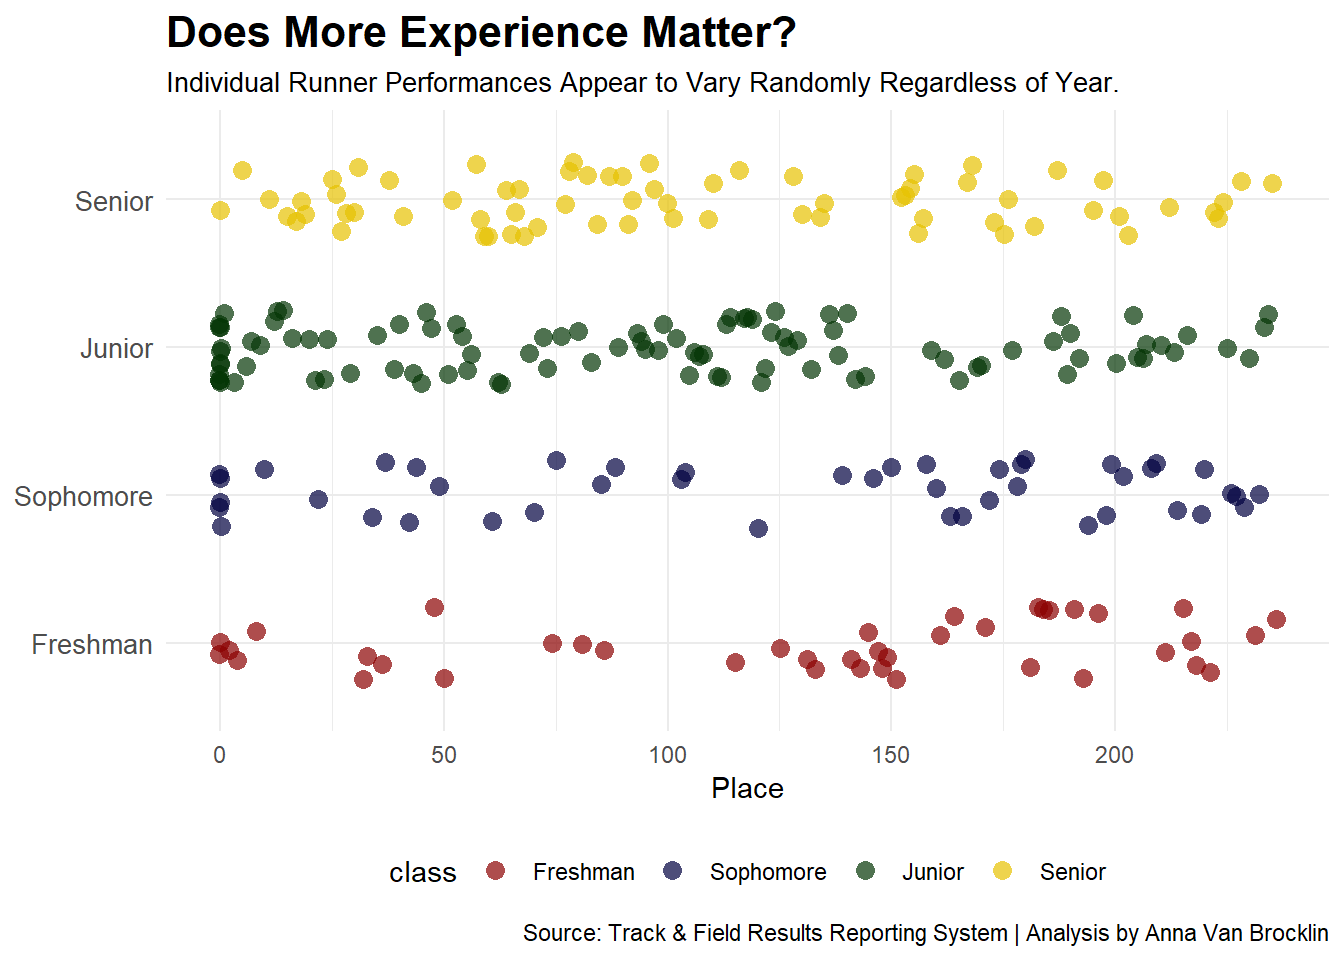
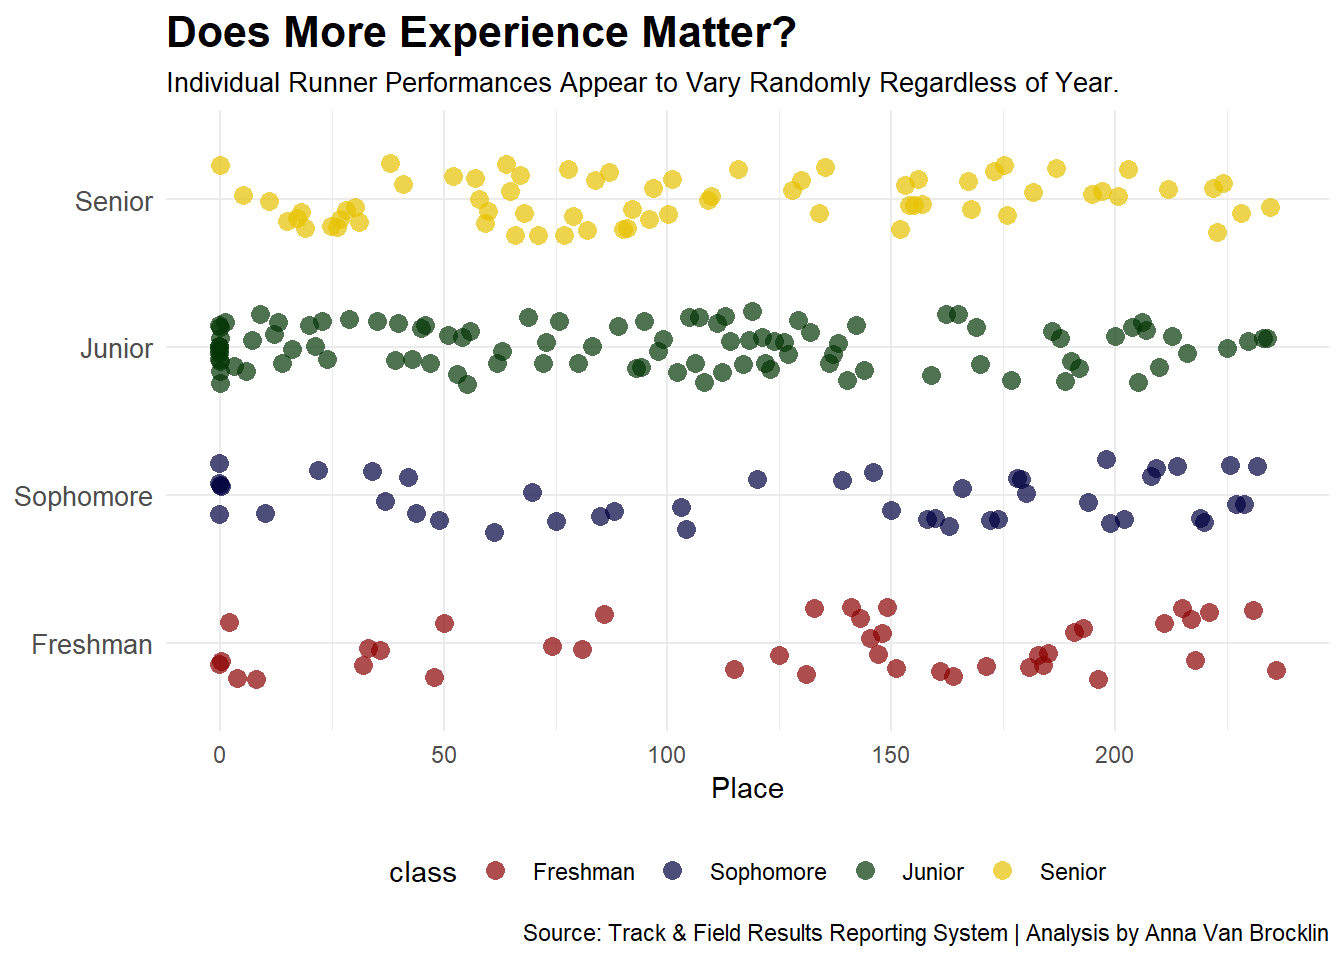
ggsave("image.png")

diff --git a/posts/cross-country-championship-2023/index.html b/posts/cross-country-championship-2023/index.html
@@ -239,10 +239,7 @@ time (1): Avg. Mile
 </div>
 <details class="code-fold">
 <summary>Code</summary>
-<div class="sourceCode cell-code" id="cb6"><pre class="sourceCode r code-with-copy"><code class="sourceCode r"><span id="cb6-1"><a href="#cb6-1" aria-hidden="true" tabindex="-1"></a><span class="fu">View</span>(xc_log)</span>
-<span id="cb6-2"><a href="#cb6-2" aria-hidden="true" tabindex="-1"></a></span>
-<span id="cb6-3"><a href="#cb6-3" aria-hidden="true" tabindex="-1"></a></span>
-<span id="cb6-4"><a href="#cb6-4" aria-hidden="true" tabindex="-1"></a><span class="fu">glimpse</span>(xc_log)</span></code><button title="Copy to Clipboard" class="code-copy-button"><i class="bi"></i></button></pre></div>
+<div class="sourceCode cell-code" id="cb6"><pre class="sourceCode r code-with-copy"><code class="sourceCode r"><span id="cb6-1"><a href="#cb6-1" aria-hidden="true" tabindex="-1"></a><span class="fu">glimpse</span>(xc_log)</span></code><button title="Copy to Clipboard" class="code-copy-button"><i class="bi"></i></button></pre></div>
 </details>
 <div class="cell-output cell-output-stdout">
 <pre><code>Rows: 255
@@ -323,6 +320,22 @@ Caused by warning in `ifelse()`:
 </figure>
 </div>
 </div>
+<details class="code-fold">
+<summary>Code</summary>
+<div class="sourceCode cell-code" id="cb11"><pre class="sourceCode r code-with-copy"><code class="sourceCode r"><span id="cb11-1"><a href="#cb11-1" aria-hidden="true" tabindex="-1"></a><span class="fu">ggsave</span>(<span class="st">"image.png"</span>)</span></code><button title="Copy to Clipboard" class="code-copy-button"><i class="bi"></i></button></pre></div>
+</details>
+<div class="cell-output cell-output-stderr">
+<pre><code>Saving 7 x 5 in image</code></pre>
+</div>
+</div>
+<div class="cell">
+<details class="code-fold">
+<summary>Code</summary>
+<div class="sourceCode cell-code" id="cb13"><pre class="sourceCode r code-with-copy"><code class="sourceCode r"><span id="cb13-1"><a href="#cb13-1" aria-hidden="true" tabindex="-1"></a><span class="fu">ggsave</span>(<span class="st">"image.png"</span>)</span></code><button title="Copy to Clipboard" class="code-copy-button"><i class="bi"></i></button></pre></div>
+</details>
+<div class="cell-output cell-output-stderr">
+<pre><code>Saving 7 x 5 in image</code></pre>
+</div>
 </div>
 <p>The findings from our data show a decently even spread between runners of each year. There are noticeable patterns within the data, but this plot alone isn’t enough to prove one way or another in terms of whether experience has a significant impact on a runner’s performance in cross country.</p>
 <p>While we can see the groupings of runners that finished in the middle of the pack within the juniors and seniors, we can also see that freshman and sophomores tend to have a more even spread with runners evenly spaced throughout the race</p>
@@ -330,47 +343,47 @@ Caused by warning in `ifelse()`:
 <div class="cell">
 <details class="code-fold">
 <summary>Code</summary>
-<div class="sourceCode cell-code" id="cb11"><pre class="sourceCode r code-with-copy"><code class="sourceCode r"><span id="cb11-1"><a href="#cb11-1" aria-hidden="true" tabindex="-1"></a><span class="fu">library</span>(ggplot2)</span>
-<span id="cb11-2"><a href="#cb11-2" aria-hidden="true" tabindex="-1"></a><span class="fu">library</span>(dplyr)</span>
-<span id="cb11-3"><a href="#cb11-3" aria-hidden="true" tabindex="-1"></a><span class="fu">library</span>(stringr)</span>
-<span id="cb11-4"><a href="#cb11-4" aria-hidden="true" tabindex="-1"></a></span>
-<span id="cb11-5"><a href="#cb11-5" aria-hidden="true" tabindex="-1"></a><span class="co">#| message: FALSE</span></span>
-<span id="cb11-6"><a href="#cb11-6" aria-hidden="true" tabindex="-1"></a><span class="co">#| warning: FALSE</span></span>
-<span id="cb11-7"><a href="#cb11-7" aria-hidden="true" tabindex="-1"></a></span>
-<span id="cb11-8"><a href="#cb11-8" aria-hidden="true" tabindex="-1"></a>xc_log_clean <span class="ot">&lt;-</span> xc_log <span class="sc">%&gt;%</span></span>
-<span id="cb11-9"><a href="#cb11-9" aria-hidden="true" tabindex="-1"></a>  <span class="fu">filter</span>(<span class="sc">!</span>TIME <span class="sc">%in%</span> <span class="fu">c</span>(<span class="st">"DNF"</span>, <span class="st">"DNS"</span>)) <span class="sc">%&gt;%</span>  <span class="co"># Remove rows with DNF or DNS</span></span>
-<span id="cb11-10"><a href="#cb11-10" aria-hidden="true" tabindex="-1"></a>  <span class="fu">mutate</span>(</span>
-<span id="cb11-11"><a href="#cb11-11" aria-hidden="true" tabindex="-1"></a>    <span class="at">FinishingTime =</span> <span class="fu">as.numeric</span>(<span class="fu">str_extract</span>(TIME, <span class="st">"^</span><span class="sc">\\</span><span class="st">d+"</span>)) <span class="sc">*</span> <span class="dv">60</span> <span class="sc">+</span>  <span class="co"># Extract minutes and convert to seconds</span></span>
-<span id="cb11-12"><a href="#cb11-12" aria-hidden="true" tabindex="-1"></a>                    <span class="fu">as.numeric</span>(<span class="fu">str_extract</span>(TIME, <span class="st">"</span><span class="sc">\\</span><span class="st">d+$"</span>)),</span>
-<span id="cb11-13"><a href="#cb11-13" aria-hidden="true" tabindex="-1"></a>    <span class="at">Class =</span> <span class="fu">case_when</span>(</span>
-<span id="cb11-14"><a href="#cb11-14" aria-hidden="true" tabindex="-1"></a>      <span class="fu">grepl</span>(<span class="st">"^FR|^SO"</span>, YEAR) <span class="sc">~</span> <span class="st">"Underclassmen"</span>,  <span class="co"># Freshman or Sophomore</span></span>
-<span id="cb11-15"><a href="#cb11-15" aria-hidden="true" tabindex="-1"></a>      <span class="fu">grepl</span>(<span class="st">"^JR|^SR"</span>, YEAR) <span class="sc">~</span> <span class="st">"Upperclassmen"</span>,   <span class="co"># Junior or Senior</span></span>
-<span id="cb11-16"><a href="#cb11-16" aria-hidden="true" tabindex="-1"></a>      <span class="cn">TRUE</span> <span class="sc">~</span> <span class="st">"Other"</span>                           <span class="co"># Handle other cases as "Other"</span></span>
-<span id="cb11-17"><a href="#cb11-17" aria-hidden="true" tabindex="-1"></a>    )</span>
-<span id="cb11-18"><a href="#cb11-18" aria-hidden="true" tabindex="-1"></a>  )</span>
-<span id="cb11-19"><a href="#cb11-19" aria-hidden="true" tabindex="-1"></a></span>
-<span id="cb11-20"><a href="#cb11-20" aria-hidden="true" tabindex="-1"></a></span>
-<span id="cb11-21"><a href="#cb11-21" aria-hidden="true" tabindex="-1"></a><span class="fu">ggplot</span>(xc_log_clean, <span class="fu">aes</span>(<span class="at">x =</span> FinishingTime <span class="sc">/</span> <span class="dv">60</span>, <span class="at">fill =</span> Class)) <span class="sc">+</span>  </span>
-<span id="cb11-22"><a href="#cb11-22" aria-hidden="true" tabindex="-1"></a>  <span class="fu">geom_histogram</span>(<span class="at">binwidth =</span> <span class="fl">0.2</span>, <span class="at">position =</span> <span class="st">"dodge"</span>, <span class="at">color =</span> <span class="st">"black"</span>, <span class="at">alpha =</span> <span class="fl">0.7</span>, <span class="at">fill =</span> <span class="st">"grey"</span>) <span class="sc">+</span>  </span>
-<span id="cb11-23"><a href="#cb11-23" aria-hidden="true" tabindex="-1"></a>  <span class="fu">facet_wrap</span>(<span class="sc">~</span> Class, <span class="at">nrow =</span> <span class="dv">1</span>) <span class="sc">+</span></span>
-<span id="cb11-24"><a href="#cb11-24" aria-hidden="true" tabindex="-1"></a>  <span class="fu">labs</span>(</span>
-<span id="cb11-25"><a href="#cb11-25" aria-hidden="true" tabindex="-1"></a>    <span class="at">title =</span> <span class="st">"Is Beginner's Luck the Key to Success?"</span>,</span>
-<span id="cb11-26"><a href="#cb11-26" aria-hidden="true" tabindex="-1"></a>    <span class="at">subtitle =</span> <span class="st">"Underclassmen Runners Show Promising Talent, but is that Enough to Beat Experienced Runners?</span></span>
-<span id="cb11-27"><a href="#cb11-27" aria-hidden="true" tabindex="-1"></a><span class="st">"</span>,</span>
-<span id="cb11-28"><a href="#cb11-28" aria-hidden="true" tabindex="-1"></a>    <span class="at">x =</span> <span class="st">"Finishing Time (Minutes)"</span>,</span>
-<span id="cb11-29"><a href="#cb11-29" aria-hidden="true" tabindex="-1"></a>    <span class="at">y =</span> <span class="st">"Number of Runners"</span>,</span>
-<span id="cb11-30"><a href="#cb11-30" aria-hidden="true" tabindex="-1"></a>    <span class="at">caption =</span> <span class="st">"Source: Track &amp; Field Results Reporting System | By Anna Van Brocklin"</span></span>
-<span id="cb11-31"><a href="#cb11-31" aria-hidden="true" tabindex="-1"></a>  ) <span class="sc">+</span></span>
-<span id="cb11-32"><a href="#cb11-32" aria-hidden="true" tabindex="-1"></a>  <span class="fu">theme_minimal</span>(<span class="at">base_size =</span> <span class="dv">12</span>) <span class="sc">+</span></span>
-<span id="cb11-33"><a href="#cb11-33" aria-hidden="true" tabindex="-1"></a>  <span class="fu">theme</span>(</span>
-<span id="cb11-34"><a href="#cb11-34" aria-hidden="true" tabindex="-1"></a>    <span class="at">plot.title =</span> <span class="fu">element_text</span>(<span class="at">face =</span> <span class="st">"bold"</span>, <span class="at">size =</span> <span class="dv">16</span>, <span class="at">hjust =</span> <span class="fl">0.5</span>),</span>
-<span id="cb11-35"><a href="#cb11-35" aria-hidden="true" tabindex="-1"></a>    <span class="at">plot.subtitle =</span> <span class="fu">element_text</span>(<span class="at">size =</span> <span class="dv">12</span>, <span class="at">hjust =</span> <span class="fl">0.5</span>),</span>
-<span id="cb11-36"><a href="#cb11-36" aria-hidden="true" tabindex="-1"></a>    <span class="at">strip.text =</span> <span class="fu">element_text</span>(<span class="at">face =</span> <span class="st">"bold"</span>, <span class="at">size =</span> <span class="dv">14</span>),</span>
-<span id="cb11-37"><a href="#cb11-37" aria-hidden="true" tabindex="-1"></a>    <span class="at">axis.title =</span> <span class="fu">element_text</span>(<span class="at">size =</span> <span class="dv">12</span>),</span>
-<span id="cb11-38"><a href="#cb11-38" aria-hidden="true" tabindex="-1"></a>    <span class="at">legend.title =</span> <span class="fu">element_text</span>(<span class="at">face =</span> <span class="st">"bold"</span>, <span class="at">size =</span> <span class="dv">12</span>),</span>
-<span id="cb11-39"><a href="#cb11-39" aria-hidden="true" tabindex="-1"></a>    <span class="at">legend.text =</span> <span class="fu">element_text</span>(<span class="at">size =</span> <span class="dv">10</span>),</span>
-<span id="cb11-40"><a href="#cb11-40" aria-hidden="true" tabindex="-1"></a>    <span class="at">plot.margin =</span> <span class="fu">margin</span>(<span class="dv">15</span>, <span class="dv">15</span>, <span class="dv">15</span>, <span class="dv">15</span>)</span>
-<span id="cb11-41"><a href="#cb11-41" aria-hidden="true" tabindex="-1"></a>  )</span></code><button title="Copy to Clipboard" class="code-copy-button"><i class="bi"></i></button></pre></div>
+<div class="sourceCode cell-code" id="cb15"><pre class="sourceCode r code-with-copy"><code class="sourceCode r"><span id="cb15-1"><a href="#cb15-1" aria-hidden="true" tabindex="-1"></a><span class="fu">library</span>(ggplot2)</span>
+<span id="cb15-2"><a href="#cb15-2" aria-hidden="true" tabindex="-1"></a><span class="fu">library</span>(dplyr)</span>
+<span id="cb15-3"><a href="#cb15-3" aria-hidden="true" tabindex="-1"></a><span class="fu">library</span>(stringr)</span>
+<span id="cb15-4"><a href="#cb15-4" aria-hidden="true" tabindex="-1"></a></span>
+<span id="cb15-5"><a href="#cb15-5" aria-hidden="true" tabindex="-1"></a><span class="co">#| message: FALSE</span></span>
+<span id="cb15-6"><a href="#cb15-6" aria-hidden="true" tabindex="-1"></a><span class="co">#| warning: FALSE</span></span>
+<span id="cb15-7"><a href="#cb15-7" aria-hidden="true" tabindex="-1"></a></span>
+<span id="cb15-8"><a href="#cb15-8" aria-hidden="true" tabindex="-1"></a>xc_log_clean <span class="ot">&lt;-</span> xc_log <span class="sc">%&gt;%</span></span>
+<span id="cb15-9"><a href="#cb15-9" aria-hidden="true" tabindex="-1"></a>  <span class="fu">filter</span>(<span class="sc">!</span>TIME <span class="sc">%in%</span> <span class="fu">c</span>(<span class="st">"DNF"</span>, <span class="st">"DNS"</span>)) <span class="sc">%&gt;%</span>  <span class="co"># Remove rows with DNF or DNS</span></span>
+<span id="cb15-10"><a href="#cb15-10" aria-hidden="true" tabindex="-1"></a>  <span class="fu">mutate</span>(</span>
+<span id="cb15-11"><a href="#cb15-11" aria-hidden="true" tabindex="-1"></a>    <span class="at">FinishingTime =</span> <span class="fu">as.numeric</span>(<span class="fu">str_extract</span>(TIME, <span class="st">"^</span><span class="sc">\\</span><span class="st">d+"</span>)) <span class="sc">*</span> <span class="dv">60</span> <span class="sc">+</span>  <span class="co"># Extract minutes and convert to seconds</span></span>
+<span id="cb15-12"><a href="#cb15-12" aria-hidden="true" tabindex="-1"></a>                    <span class="fu">as.numeric</span>(<span class="fu">str_extract</span>(TIME, <span class="st">"</span><span class="sc">\\</span><span class="st">d+$"</span>)),</span>
+<span id="cb15-13"><a href="#cb15-13" aria-hidden="true" tabindex="-1"></a>    <span class="at">Class =</span> <span class="fu">case_when</span>(</span>
+<span id="cb15-14"><a href="#cb15-14" aria-hidden="true" tabindex="-1"></a>      <span class="fu">grepl</span>(<span class="st">"^FR|^SO"</span>, YEAR) <span class="sc">~</span> <span class="st">"Underclassmen"</span>,  <span class="co"># Freshman or Sophomore</span></span>
+<span id="cb15-15"><a href="#cb15-15" aria-hidden="true" tabindex="-1"></a>      <span class="fu">grepl</span>(<span class="st">"^JR|^SR"</span>, YEAR) <span class="sc">~</span> <span class="st">"Upperclassmen"</span>,   <span class="co"># Junior or Senior</span></span>
+<span id="cb15-16"><a href="#cb15-16" aria-hidden="true" tabindex="-1"></a>      <span class="cn">TRUE</span> <span class="sc">~</span> <span class="st">"Other"</span>                           <span class="co"># Handle other cases as "Other"</span></span>
+<span id="cb15-17"><a href="#cb15-17" aria-hidden="true" tabindex="-1"></a>    )</span>
+<span id="cb15-18"><a href="#cb15-18" aria-hidden="true" tabindex="-1"></a>  )</span>
+<span id="cb15-19"><a href="#cb15-19" aria-hidden="true" tabindex="-1"></a></span>
+<span id="cb15-20"><a href="#cb15-20" aria-hidden="true" tabindex="-1"></a></span>
+<span id="cb15-21"><a href="#cb15-21" aria-hidden="true" tabindex="-1"></a><span class="fu">ggplot</span>(xc_log_clean, <span class="fu">aes</span>(<span class="at">x =</span> FinishingTime <span class="sc">/</span> <span class="dv">60</span>, <span class="at">fill =</span> Class)) <span class="sc">+</span>  </span>
+<span id="cb15-22"><a href="#cb15-22" aria-hidden="true" tabindex="-1"></a>  <span class="fu">geom_histogram</span>(<span class="at">binwidth =</span> <span class="fl">0.2</span>, <span class="at">position =</span> <span class="st">"dodge"</span>, <span class="at">color =</span> <span class="st">"black"</span>, <span class="at">alpha =</span> <span class="fl">0.7</span>, <span class="at">fill =</span> <span class="st">"grey"</span>) <span class="sc">+</span>  </span>
+<span id="cb15-23"><a href="#cb15-23" aria-hidden="true" tabindex="-1"></a>  <span class="fu">facet_wrap</span>(<span class="sc">~</span> Class, <span class="at">nrow =</span> <span class="dv">1</span>) <span class="sc">+</span></span>
+<span id="cb15-24"><a href="#cb15-24" aria-hidden="true" tabindex="-1"></a>  <span class="fu">labs</span>(</span>
+<span id="cb15-25"><a href="#cb15-25" aria-hidden="true" tabindex="-1"></a>    <span class="at">title =</span> <span class="st">"Is Beginner's Luck the Key to Success?"</span>,</span>
+<span id="cb15-26"><a href="#cb15-26" aria-hidden="true" tabindex="-1"></a>    <span class="at">subtitle =</span> <span class="st">"Underclassmen Runners Show Promising Talent, but is that Enough to Beat Experienced Runners?</span></span>
+<span id="cb15-27"><a href="#cb15-27" aria-hidden="true" tabindex="-1"></a><span class="st">"</span>,</span>
+<span id="cb15-28"><a href="#cb15-28" aria-hidden="true" tabindex="-1"></a>    <span class="at">x =</span> <span class="st">"Finishing Time (Minutes)"</span>,</span>
+<span id="cb15-29"><a href="#cb15-29" aria-hidden="true" tabindex="-1"></a>    <span class="at">y =</span> <span class="st">"Number of Runners"</span>,</span>
+<span id="cb15-30"><a href="#cb15-30" aria-hidden="true" tabindex="-1"></a>    <span class="at">caption =</span> <span class="st">"Source: Track &amp; Field Results Reporting System | By Anna Van Brocklin"</span></span>
+<span id="cb15-31"><a href="#cb15-31" aria-hidden="true" tabindex="-1"></a>  ) <span class="sc">+</span></span>
+<span id="cb15-32"><a href="#cb15-32" aria-hidden="true" tabindex="-1"></a>  <span class="fu">theme_minimal</span>(<span class="at">base_size =</span> <span class="dv">12</span>) <span class="sc">+</span></span>
+<span id="cb15-33"><a href="#cb15-33" aria-hidden="true" tabindex="-1"></a>  <span class="fu">theme</span>(</span>
+<span id="cb15-34"><a href="#cb15-34" aria-hidden="true" tabindex="-1"></a>    <span class="at">plot.title =</span> <span class="fu">element_text</span>(<span class="at">face =</span> <span class="st">"bold"</span>, <span class="at">size =</span> <span class="dv">16</span>, <span class="at">hjust =</span> <span class="fl">0.5</span>),</span>
+<span id="cb15-35"><a href="#cb15-35" aria-hidden="true" tabindex="-1"></a>    <span class="at">plot.subtitle =</span> <span class="fu">element_text</span>(<span class="at">size =</span> <span class="dv">12</span>, <span class="at">hjust =</span> <span class="fl">0.5</span>),</span>
+<span id="cb15-36"><a href="#cb15-36" aria-hidden="true" tabindex="-1"></a>    <span class="at">strip.text =</span> <span class="fu">element_text</span>(<span class="at">face =</span> <span class="st">"bold"</span>, <span class="at">size =</span> <span class="dv">14</span>),</span>
+<span id="cb15-37"><a href="#cb15-37" aria-hidden="true" tabindex="-1"></a>    <span class="at">axis.title =</span> <span class="fu">element_text</span>(<span class="at">size =</span> <span class="dv">12</span>),</span>
+<span id="cb15-38"><a href="#cb15-38" aria-hidden="true" tabindex="-1"></a>    <span class="at">legend.title =</span> <span class="fu">element_text</span>(<span class="at">face =</span> <span class="st">"bold"</span>, <span class="at">size =</span> <span class="dv">12</span>),</span>
+<span id="cb15-39"><a href="#cb15-39" aria-hidden="true" tabindex="-1"></a>    <span class="at">legend.text =</span> <span class="fu">element_text</span>(<span class="at">size =</span> <span class="dv">10</span>),</span>
+<span id="cb15-40"><a href="#cb15-40" aria-hidden="true" tabindex="-1"></a>    <span class="at">plot.margin =</span> <span class="fu">margin</span>(<span class="dv">15</span>, <span class="dv">15</span>, <span class="dv">15</span>, <span class="dv">15</span>)</span>
+<span id="cb15-41"><a href="#cb15-41" aria-hidden="true" tabindex="-1"></a>  )</span></code><button title="Copy to Clipboard" class="code-copy-button"><i class="bi"></i></button></pre></div>
 </details>
 <div class="cell-output cell-output-stderr">
 <pre><code>Warning: Removed 19 rows containing non-finite outside the scale range
@@ -379,7 +392,7 @@ Caused by warning in `ifelse()`:
 <div class="cell-output-display">
 <div>
 <figure class="figure">
-<p><img src="index_files/figure-html/unnamed-chunk-4-1.png" class="img-fluid figure-img" width="672"></p>
+<p><img src="index_files/figure-html/unnamed-chunk-5-1.png" class="img-fluid figure-img" width="672"></p>
 </figure>
 </div>
 </div>

diff --git a/site_libs/quarto-html/anchor.min.js b/site_libs/quarto-html/anchor.min.js
@@ -1,0 +1,9 @@
+// @license magnet:?xt=urn:btih:d3d9a9a6595521f9666a5e94cc830dab83b65699&dn=expat.txt Expat
+//
+// AnchorJS - v5.0.0 - 2023-01-18
+// https://www.bryanbraun.com/anchorjs/
+// Copyright (c) 2023 Bryan Braun; Licensed MIT
+//
+// @license magnet:?xt=urn:btih:d3d9a9a6595521f9666a5e94cc830dab83b65699&dn=expat.txt Expat
[1 lines of base64/hex data omitted]
+// @license-end
